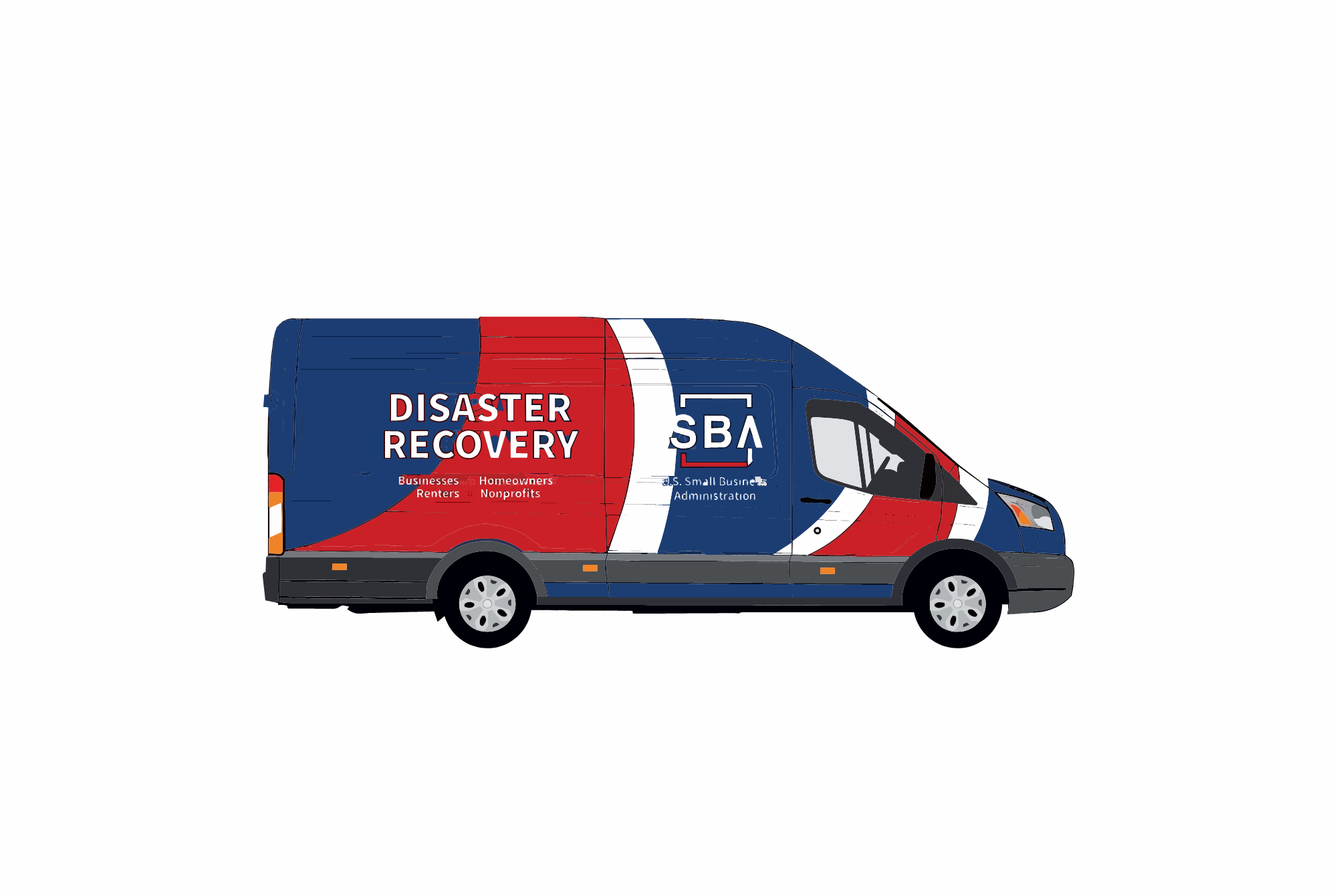
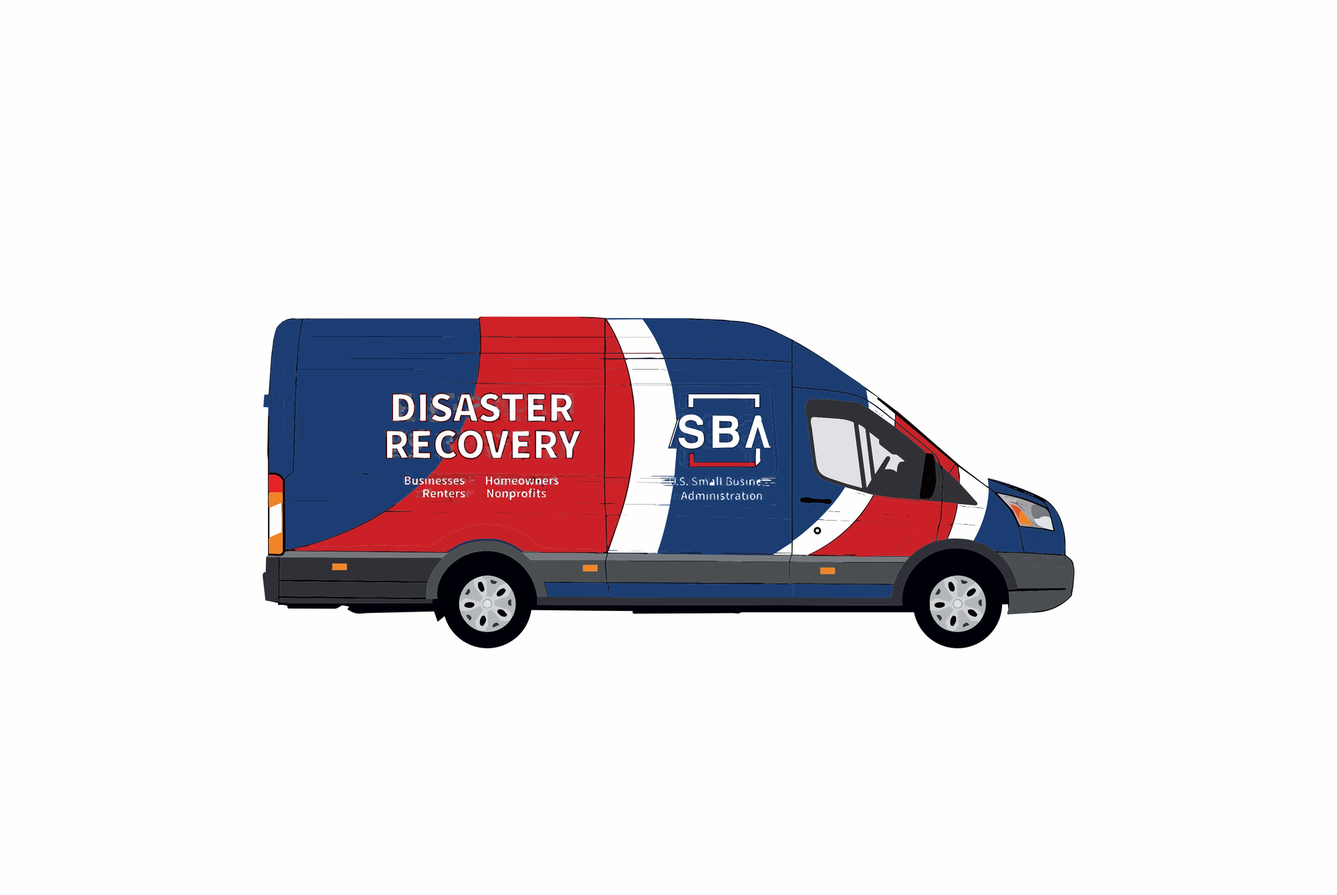
Van passenger-side lettering rebuilt (no red inside the letters), realistic traffic cars, trophy-truck suspension with crisp steering, heavier jumps with landing bounce, tighter timers with a 10 s carry-over cap

Changed region(s): [[0.279, 0.4287, 0.434, 0.5818], [0.496, 0.4287, 0.589, 0.5818]]

diff --git a/game/src/game.js b/game/src/game.js
@@ -14,7 +14,7 @@ import { Radio } from "./radio.js";
 const easeIO = (t) => t < 0.5 ? 4 * t * t * t : 1 - Math.pow(-2 * t + 2, 3) / 2;
 
 const VAN_W = 0.24;          // van width in road half-widths
-const JUMP_G = 13;           // gravity for jumps (m/s^2): a little stronger than real, so jumps stay arcade-snappy
+const JUMP_G = 21;           // gravity for jumps (m/s^2): stronger than real, so a ramp gives about a second of air, not a float
 const DT = 1 / 60;
 const RADIO_STATES = new Set(["stageIntro", "drive", "restoring", "results"]);   // where stage music (or the radio) plays
 
@@ -41,12 +41,12 @@ export class Game {
     const prev = i > 0 ? WEATHER[this.cfg.stages[i - 1].weather] : WEATHER.dusk;
     this.envFrom = prev; this.envBlend = 0;
     const P = this.player; P.z = 0; P.x = 0.35; P.speed = 0; P.y = 0; P.vx = 0; this.steerS = 0; this.lastSpeed = 0; this.jumpReset();
-    this.body = { p: 0, pv: 0, r: 0, rv: 0, h: 0, hv: 0 };
+    this.body = { p: 0, pv: 0, r: 0, rv: 0, h: 0, hv: 0 }; this.lastRoadY = this.lastVyRoad = undefined;
     this.camX = P.x * 0.8; this.parallax = 0; this.delivered = false; this.overshot = false; this.autoStop = false;
     // Phones steer by tilt or touch, which is slower than a keyboard, so they get a little more time,
     // and nobody starts a stage with less than a fair floor (a retry after time-up never carries anything over).
     const base = this.stageTime();
-    this.time = Math.max((keepTime ? this.time : 0) + base, base * (this.mobile ? this.cfg.difficulty.minStartFactor : 0)); this.boosts = this.cfg.physics.boostsPerStage; this.boostT = 0; this.boostQueued = false;
+    this.time = Math.max((keepTime ? Math.min(this.time, this.cfg.difficulty.carryMax ?? 1e9) : 0) + base, base * (this.mobile ? this.cfg.difficulty.minStartFactor : 0)); this.boosts = this.cfg.physics.boostsPerStage; this.boostT = 0; this.boostQueued = false;
     this.crashes = 0; this.stopT = 0; this.messages = []; this.particles = []; this.tornado = null;
     this.restoreP[this.stageCfg.business] = 0;
     // the hidden helicopter escort: earned by running out of time, offered once on the retry
@@ -229,9 +229,9 @@ export class Game {
     const steerRate = C.steer * (0.3 + 0.7 * Math.min(1, speedK * 1.4)) * (0.7 + 0.3 * grip);
     // the wheel turns in and comes back progressively (a key press never snaps it), and the tyres take
     // a moment to bite, a little longer in the wet: the van carries its weight across the road
-    const sr = Math.abs(steer) > Math.abs(this.steerS) && Math.sign(steer) === Math.sign(this.steerS || steer) ? 6 : 9;
+    const sr = Math.abs(steer) > Math.abs(this.steerS) && Math.sign(steer) === Math.sign(this.steerS || steer) ? 14 : 18;   // quick: the wheel answers at once
     this.steerS += clamp(steer - this.steerS, -sr * DT, sr * DT);
-    const latT = this.steerS * steerRate * (P.speed > 50 ? 1 : 0) * (air ? 0.3 : 1), bite = (air ? 1.2 : 8.5) * (0.5 + 0.5 * grip);
+    const latT = this.steerS * steerRate * (P.speed > 50 ? 1 : 0) * (air ? 0.3 : 1), bite = (air ? 1.2 : 16) * (0.55 + 0.45 * grip);
     P.vx += (latT - P.vx) * (1 - Math.exp(-bite * DT));
     P.x += P.vx * DT;
     const assist = this.mobileAssist();
@@ -260,14 +260,19 @@ export class Game {
     const yawT = clamp(steer * 0.6 * Math.min(1, speedK * 2.5) + (1 - grip) * Math.sin(this.clock * 7) * 0.12 * speedK, -1, 1);
     this.yaw = lerp(this.yaw, yawT, 0.14); this.roll = lerp(this.roll, -this.yaw * 0.035 - seg.curve * 0.004 * speedK, 0.1);
     this.hitFx = Math.max(0, this.hitFx - DT * 3); this.shake = Math.max(0, this.shake - DT * 2.5);
-    // weight transfer on springs: the nose squats under power and dives under braking, the body leans
+    // long-travel suspension, the way a desert trophy truck rides: the body sways out of turns on soft,
+    // lightly damped springs, squats under power, dives under braking, goes light over crests and soaks up
+    // bumps; the wheels stay on the road (the controls stay crisp: this is all body motion)
     // out of turns and the suspension soaks up road bumps and landings
     const B = this.body, aLong = (P.speed - this.lastSpeed) / DT / C.maxSpeed; this.lastSpeed = P.speed;
-    const pT = air ? 0 : clamp(aLong * 0.028, -0.05, 0.03), rT = air ? 0 : clamp((this.steerS * 0.75 + seg.curve * 0.1) * speedK * speedK * 0.075, -0.07, 0.07);
-    B.pv += ((pT - B.p) * 95 - B.pv * 10) * DT; B.p += B.pv * DT;
-    B.rv += ((rT - B.r) * 70 - B.rv * 8) * DT; B.r += B.rv * DT;
-    const bumps = air ? 0 : noise1(P.z * 0.0011, 3) * 0.022 * speedK * (off ? 3 : 1);
-    B.hv += ((bumps - B.h) * 160 - B.hv * 12) * DT; B.h += B.hv * DT;
+    const pT = air ? 0 : clamp(aLong * 0.04, -0.07, 0.045), rT = air ? 0 : clamp((this.steerS * 0.8 + seg.curve * 0.1) * speedK * speedK * 0.11, -0.1, 0.1);
+    B.pv += ((pT - B.p) * 45 - B.pv * 5) * DT; B.p += B.pv * DT;               // ~1.1 Hz, settles after a small overshoot
+    B.rv += ((rT - B.r) * 38 - B.rv * 4.5) * DT; B.r += B.rv * DT;             // ~1 Hz sway
+    // heave: road texture, and the road's own rise and fall (light over a crest, compressed in a dip)
+    const vyRoad = (P.y - (this.lastRoadY ?? P.y)) / DT * U2M; this.lastRoadY = P.y;
+    const ayRoad = (vyRoad - (this.lastVyRoad ?? vyRoad)) / DT; this.lastVyRoad = vyRoad;
+    const bumps = air ? 0 : noise1(P.z * 0.0011, 3) * 0.035 * speedK * (off ? 2.5 : 1) + clamp(-ayRoad * 0.004, -0.1, 0.1);
+    B.hv += ((bumps - B.h) * 120 - B.hv * 9) * DT; B.h += B.hv * DT;
     const roadRumble = (off ? 3 : 0.4) * speedK + env.gust * Math.abs(gustA) * 2;
     this.camShakeY = (Math.sin(this.clock * 50) * roadRumble + (Math.random() - 0.5) * this.shake * 14);
     // collisions
@@ -404,7 +409,7 @@ export class Game {
   deliver(precision, overshot) {
     this.stopEscort(); this.delivered = true; this.zoneHint = false; this.tornadoWarned = false; this.hurrWarned = false;
     const st = this.stageCfg, tl = this.time;
-    let stars = tl > st.time * 0.2 ? 3 : tl > st.time * 0.08 ? 2 : 1;   // (timers are tight: a fifth of the time left is a great run)
+    let stars = tl > st.time * 0.1 ? 3 : tl > st.time * 0.03 ? 2 : 1;   // (timers are tight: a tenth of the time left is a great run)
     if (overshot || precision < 0.25) stars = Math.max(1, stars - 1);
     if (this.crashes > 6) stars = Math.max(1, stars - 1);
     this.lastResult = { timeLeft: tl, precision: Math.max(0, precision), overshot, crashes: this.crashes, stars, counted: false };
@@ -457,7 +462,7 @@ export class Game {
     P.lastPart = s.bridge ? s.bridge.part : null;
   }
   land(impact) {
-    const P = this.player, j = P.jump; P.air = false; P.airY = 0; P.vy = 0; P.pitch = 0; this.body.hv -= Math.min(2.2, impact * 0.1); this.body.pv -= impact * 0.012;
+    const P = this.player, j = P.jump; P.air = false; P.airY = 0; P.vy = 0; P.pitch = 0; this.body.hv -= Math.min(3.2, impact * 0.16); this.body.pv -= Math.min(0.5, impact * 0.015);   // the springs take the landing: compress, rebound, settle
     rumble(Math.min(1, 0.3 + impact / 20), 220); this.events.push({ type: "land", impact });
     // too slow to clear the gap (the far leaf caught the van): that is the rough landing
     if (P.assisted) { P.speed *= 0.6; this.shake = 1.1; this.hitFx = 0.6; this.audio.sfxPlay("crash"); this.msg("ROUGH LANDING!", "#FFB4B4", 1.2, 5, 0.36); return; }

diff --git a/game/src/three/props3d.js b/game/src/three/props3d.js
@@ -179,14 +179,64 @@ export const PROPS = {
 };
 
 // Traffic: body parts are white (tinted per instance), glass/tyres coloured.
-export function carGeometry(type) {
-  const W = "#ffffff", G = "#1b2430", T = "#121316", parts = [];
-  const wheels = (z0, z1, w) => { for (const z of [z0, z1]) for (const x of [-w / 2, w / 2]) parts.push(at(paint(new THREE.CylinderGeometry(0.34, 0.34, 0.24, 10), T), x, 0.34, z, 0, 0, Math.PI / 2)); };
-  if (type === "boxtruck") { parts.push(box(2.3, 2.6, 5.0, W, 0, 0.7, 1.2), box(2.2, 1.6, 2.0, "#e2e5ea", 0, 0.55, -2.4), box(2.0, 0.8, 0.05, G, 0, 1.25, -3.42)); wheels(-2.4, 2.6, 2.2); }
-  else if (type === "pickup" || type === "utility") { parts.push(box(2.0, 0.85, 5.2, W, 0, 0.45, 0), box(1.9, 0.8, 1.9, W, 0, 1.3, -0.6), box(1.8, 0.62, 0.05, G, 0, 1.38, -1.57), box(1.8, 0.62, 0.05, G, 0, 1.38, 0.37)); if (type === "utility") parts.push(box(1.9, 0.6, 2.0, "#e6e8ec", 0, 1.3, 1.5)); wheels(-1.6, 1.6, 1.95); }
-  else { const hatch = type === "hatch"; parts.push(box(1.85, 0.7, hatch ? 4.0 : 4.6, W, 0, 0.42, 0), box(1.7, 0.62, hatch ? 2.2 : 2.3, W, 0, 1.1, hatch ? 0.35 : 0.1), box(1.6, 0.5, 0.05, G, 0, 1.15, hatch ? 1.47 : 1.27), box(1.6, 0.5, 0.05, G, 0, 1.15, hatch ? -0.77 : -1.07)); wheels(hatch ? -1.3 : -1.5, hatch ? 1.3 : 1.5, 1.8); }
-  return merge(parts);
+// ---------- traffic cars: a contoured body with real wheel arches (extruded side profile), a glass cabin
+// and roof, tyres with silver rims, lamps, grille, bumpers and mirrors. carParts() splits the paint
+// (white, so each car's instance colour tints it) from the details that keep their own colours.
+// Forward is -z, the ground is y = 0; lengths match CAR_DIM.
+const BODY = {
+  sedan:    { L: 4.6, W: 1.85, wb: 1.45, wr: 0.33, hood: 0.84, belt: 0.96, roof: 1.43, cab: [1.1, 0.35, -0.8, -1.55], tail: 0.92 },
+  hatch:    { L: 4.0, W: 1.8, wb: 1.28, wr: 0.32, hood: 0.82, belt: 0.96, roof: 1.47, cab: [0.95, 0.25, -1.3, -1.85], tail: 0.98 },
+  pickup:   { L: 5.2, W: 2.0, wb: 1.62, wr: 0.39, hood: 1.08, belt: 1.12, roof: 1.84, cab: [1.0, 0.55, -0.45, -0.58], tail: 1.16, bed: true },
+  utility:  { L: 5.2, W: 2.0, wb: 1.62, wr: 0.39, hood: 1.08, belt: 1.12, roof: 1.84, cab: [1.0, 0.55, -0.45, -0.58], tail: 1.16, bed: true, box: true },
+  boxtruck: { L: 6.4, W: 2.3, wb: 2.25, wr: 0.45, hood: 1.25, belt: 1.35, roof: 2.35, cab: [2.25, 1.85, 1.35, 1.3], tail: 3.2, cargo: true },
+};
+// a side profile (u forward, y up) extruded across the width, with rounded edges
+function profile(pts, w, bevel = 0.06) {
+  const sh = new THREE.Shape(pts.map(([u, y]) => new THREE.Vector2(u, y)));
+  const g = new THREE.ExtrudeGeometry(sh, { depth: w - bevel * 2, bevelEnabled: true, bevelThickness: bevel, bevelSize: bevel, bevelSegments: 2, curveSegments: 6 });
+  g.translate(0, 0, -(w - bevel * 2) / 2); g.rotateY(Math.PI / 2);          // u forward -> -z, width along x
+  return g;
 }
+export function carParts(type) {
+  const B = BODY[type] || BODY.sedan, h = B.L / 2, ar = B.wr + 0.07, body = [], det = [];
+  const PAINT = "#ffffff", GLASS = "#16202b", TYRE = "#121315", RIM = "#b9bdc4", TRIM = "#1d1f22", HEAD = "#f4f1e4", TAIL = "#8e1414";
+  // body outline: under the wheel arches, up the nose, over the hood to the cabin, along the beltline, down the tail
+  const pts = [[-h + 0.06, 0.3]];
+  for (const cx of [-B.wb, B.wb]) { for (let k = 0; k <= 8; k++) { const a = Math.PI - k / 8 * Math.PI; pts.push([cx + Math.cos(a) * ar, Math.max(0.3, B.wr + Math.sin(a) * ar)]); } }
+  // a rounded nose: bumper, then the hood curving back from the grille
+  pts.push([h - 0.05, 0.3], [h + 0.02, 0.42], [h + 0.03, 0.56], [h, B.hood - 0.16], [h - 0.08, B.hood - 0.05], [h - 0.25, B.hood - 0.005], [h - 0.45, B.hood]);
+  if (B.cargo) pts.push([B.cab[0], B.belt], [B.cab[3] - 0.05, B.belt], [B.cab[3] - 0.05, 0.85], [-h, 0.85], [-h, 0.55]);
+  else if (B.bed) pts.push([B.cab[0], B.belt], [B.cab[3], B.belt], [B.cab[3] - 0.04, B.tail], [-h + 0.05, B.tail], [-h - 0.02, B.tail - 0.25], [-h, 0.5]);
+  else pts.push([B.cab[0], B.belt], [B.cab[3], B.belt], [-h + 0.4, B.tail + 0.01], [-h + 0.12, B.tail - 0.04], [-h - 0.02, B.tail - 0.2], [-h - 0.03, 0.55], [-h, 0.42]);
+  body.push(paint(profile(pts, B.W, 0.1), PAINT));
+  // glass cabin (slightly narrower) and the roof skin over it
+  const [c0, c1, c2, c3] = B.cab;
+  det.push(paint(profile([[c0, B.belt - 0.01], [c1, B.roof], [c2, B.roof], [c3, B.belt - 0.01]], B.W - 0.16, 0.04), GLASS));
+  body.push(at(paint(new THREE.BoxGeometry(B.W - 0.2, 0.05, Math.abs(c1 - c2) + 0.08), PAINT), 0, B.roof + 0.015, -(c1 + c2) / 2));
+  det.push(box(0.05, B.roof - B.belt - 0.04, 0.12, TRIM, -(B.W / 2 - 0.09), B.belt, -((c1 + c2) / 2 - 0.15)), box(0.05, B.roof - B.belt - 0.04, 0.12, TRIM, B.W / 2 - 0.09, B.belt, -((c1 + c2) / 2 - 0.15)));   // B-pillars
+  // cargo box / utility body
+  if (B.cargo) body.push(box(B.W + 0.04, 2.35, h + c3 - 0.05, PAINT, 0, 0.85, (h - c3 + 0.05) / 2));   // from behind the cab to the tail
+  if (B.bed && !B.box) det.push(box(B.W - 0.32, 0.02, h + B.cab[3] - 0.2, TRIM, 0, B.tail + 0.004, (h - B.cab[3]) / 2 + 0.05));   // the open bed, seen from above
+  if (B.box) body.push(box(B.W - 0.06, 0.62, 1.85, PAINT, 0, B.tail, 1.55), box(B.W - 0.02, 0.05, 1.9, PAINT, 0, B.tail + 0.62, 1.55));
+  // wheels: tyre, silver rim, dark hub
+  for (const cx of [-B.wb, B.wb]) for (const sx of [-1, 1]) {
+    det.push(at(paint(new THREE.CylinderGeometry(B.wr, B.wr, 0.24, 16), TYRE), sx * (B.W / 2 - 0.13), B.wr, -cx, 0, 0, Math.PI / 2));
+    det.push(at(paint(new THREE.CylinderGeometry(B.wr * 0.62, B.wr * 0.62, 0.02, 14), RIM), sx * (B.W / 2 - 0.005), B.wr, -cx, 0, 0, Math.PI / 2));
+    det.push(at(paint(new THREE.CylinderGeometry(B.wr * 0.18, B.wr * 0.18, 0.03, 8), TRIM), sx * (B.W / 2 + 0.006), B.wr, -cx, 0, 0, Math.PI / 2));
+  }
+  // lamps, grille, bumpers, plate, mirrors
+  for (const sx of [-1, 1]) {
+    det.push(box(0.36, 0.13, 0.05, HEAD, sx * (B.W / 2 - 0.3), B.hood - 0.26, -(h + 0.0)));
+    det.push(box(0.3, 0.16, 0.05, TAIL, sx * (B.W / 2 - 0.22), (B.cargo ? 0.95 : B.tail - 0.3), h + 0.01));
+    body.push(box(0.08, 0.12, 0.2, PAINT, sx * (B.W / 2 + 0.06), B.belt + 0.06, -(c0 - 0.1)));
+  }
+  det.push(box(B.W * 0.45, Math.max(0.16, B.hood - 0.62), 0.05, TRIM, 0, 0.5, -(h + 0.01)));
+  det.push(box(B.W - 0.1, 0.16, 0.1, TRIM, 0, 0.3, -(h + 0.02)), box(B.W - 0.1, 0.16, 0.1, TRIM, 0, 0.3, h + 0.02));
+  det.push(box(0.5, 0.13, 0.02, "#e8e8e2", 0, 0.5, h + 0.04));
+  return { body: merge(body), detail: merge(det) };
+}
+// the whole car as one geometry (the car carrier's load uses this)
+export function carGeometry(type) { const p = carParts(type); return merge([p.body, p.detail]); }
 export const CAR_COLORS = ["#4a4f5a", "#8a2a30", "#2f5f73", "#b9bdc4", "#e9eaee", "#23272e", "#6f6a52", "#2b3f6a"];
 export const CAR_DIM = { sedan: [1.85, 4.6], hatch: [1.85, 4.0], pickup: [2.0, 5.2], utility: [2.0, 5.2], boxtruck: [2.3, 6.4] };
 

diff --git a/game/src/three/world3d.js b/game/src/three/world3d.js
@@ -7,7 +7,7 @@ import { U2M, SEGM, HALFW, buildCenterline, worldAt, pitchAt } from "./space.js"
 import { LOOKS } from "./look.js";
 import { makeSky } from "./sky.js";
 import { buildRoad } from "./road3d.js";
-import { PROPS, carGeometry, CAR_COLORS, CAR_DIM, stopBuildingGeo, setPropDetail } from "./props3d.js";
+import { PROPS, carParts, CAR_COLORS, CAR_DIM, stopBuildingGeo, setPropDetail } from "./props3d.js";
 import { buildVan } from "./van3d.js";
 import { buildHeli } from "./heli3d.js";
 import { buildJumps } from "./jumps3d.js";
@@ -179,12 +179,15 @@ export class World3D {
     // ---- traffic
     const types = {}; track.cars.forEach(c => (types[c.type] = types[c.type] || []).push(c));
     for (const type in types) {
-      const list = types[type], im = new THREE.InstancedMesh(carGeometry(type), this.q.high ? new THREE.MeshPhysicalMaterial({ vertexColors: true, roughness: 0.42, metalness: 0.25, clearcoat: 1, clearcoatRoughness: 0.08 }) : new THREE.MeshLambertMaterial({ vertexColors: true }), list.length);
+      const list = types[type], parts = carParts(type), im = new THREE.InstancedMesh(parts.body, this.q.high ? new THREE.MeshPhysicalMaterial({ vertexColors: true, roughness: 0.42, metalness: 0.25, clearcoat: 1, clearcoatRoughness: 0.08 }) : new THREE.MeshLambertMaterial({ vertexColors: true }), list.length);
       im.instanceMatrix.setUsage(THREE.DynamicDrawUsage); im.castShadow = this.q.shadows; im.frustumCulled = false;
       list.forEach((c, n) => im.setColorAt(n, tmpC.set(type === "utility" || type === "boxtruck" ? "#eef0f3" : CAR_COLORS[c.color % CAR_COLORS.length])));
       const tl = new THREE.InstancedMesh(new THREE.BoxGeometry(0.34, 0.16, 0.05), new THREE.MeshBasicMaterial({ color: 0xff2a24 }), list.length * 2); tl.instanceMatrix.setUsage(THREE.DynamicDrawUsage); tl.frustumCulled = false;
       const blob = new THREE.InstancedMesh(new THREE.PlaneGeometry(1, 1).rotateX(-Math.PI / 2), new THREE.MeshBasicMaterial({ map: blobTexture(), transparent: true, depthWrite: false }), list.length); blob.frustumCulled = false;
-      group.add(im, tl, blob); st.cars[type] = { list, im, tl, blob, dim: CAR_DIM[type] };
+      // glass, tyres, rims and lamps keep their own colours (the paint above takes each car's colour)
+      const imD = new THREE.InstancedMesh(parts.detail, this.q.high ? new THREE.MeshStandardMaterial({ vertexColors: true, roughness: 0.3, metalness: 0.35 }) : new THREE.MeshLambertMaterial({ vertexColors: true }), list.length);
+      imD.instanceMatrix.setUsage(THREE.DynamicDrawUsage); imD.frustumCulled = false; imD.castShadow = im.castShadow;
+      group.add(im, imD, tl, blob); st.cars[type] = { list, im, imD, tl, blob, dim: CAR_DIM[type] };
       if (type === "utility") { const bc = new THREE.InstancedMesh(new THREE.BoxGeometry(1.2, 0.16, 0.3), new THREE.MeshBasicMaterial({ color: 0xffa020 }), list.length); bc.instanceMatrix.setUsage(THREE.DynamicDrawUsage); bc.frustumCulled = false; group.add(bc); st.cars[type].beacon = bc; }
     }
     // ---- jumps: the drawbridge (stage 1) and the car carrier (stage 2)
@@ -322,18 +325,18 @@ export class World3D {
       const C = st.cars[type]; let n = 0;
       C.list.forEach((car, idx) => {
         const visible = car.z > vz - 60 / U2M && car.z < vz + this.q.far * 0.9 / U2M;
-        if (!visible) { this.m4.compose(this.zero, this.q4.identity(), this.zero); C.im.setMatrixAt(idx, this.m4); C.tl.setMatrixAt(idx * 2, this.m4); C.tl.setMatrixAt(idx * 2 + 1, this.m4); C.blob.setMatrixAt(idx, this.m4); if (C.beacon) C.beacon.setMatrixAt(idx, this.m4); return; }
+        if (!visible) { this.m4.compose(this.zero, this.q4.identity(), this.zero); C.im.setMatrixAt(idx, this.m4); C.imD.setMatrixAt(idx, this.m4); C.tl.setMatrixAt(idx * 2, this.m4); C.tl.setMatrixAt(idx * 2 + 1, this.m4); C.blob.setMatrixAt(idx, this.m4); if (C.beacon) C.beacon.setMatrixAt(idx, this.m4); return; }
         const zI = car.z - (car.speed || 0) * (1 - ra) / 60;   // smoothed like the van
         const p = worldAt(cl, zI, car.offset), yaw = -p.h - Math.cos(t * 0.5 + car.seed) * 0.08 * car.swerve;
         this.q4.setFromEuler(this.eul.set(pitchAt(cl, zI), yaw, 0, "YXZ"));
-        this.m4.compose(this.v3.set(p.x, p.y, p.z), this.q4, this.one); C.im.setMatrixAt(idx, this.m4);
+        this.m4.compose(this.v3.set(p.x, p.y, p.z), this.q4, this.one); C.im.setMatrixAt(idx, this.m4); C.imD.setMatrixAt(idx, this.m4);
         const back = C.dim[1] / 2 + 0.02, w = C.dim[0] / 2 - 0.25, sx = Math.sin(yaw), cz = Math.cos(yaw);
         const bright = car.braking ? 1.6 : 1;
         for (const k of [0, 1]) { const ox = (k ? w : -w); this.m4.compose(this.v3.set(p.x + cz * ox + sx * back, p.y + 0.85, p.z - sx * ox + cz * back), this.q4, this.v3.clone().set(bright, bright, 1)); C.tl.setMatrixAt(idx * 2 + k, this.m4); }
         this.m4.compose(this.v3.set(p.x, p.y + 0.03, p.z), this.q4, this.v3.clone().set(C.dim[0] * 1.5, 1, C.dim[1] * 1.2)); C.blob.setMatrixAt(idx, this.m4);
         if (C.beacon) { const on = Math.sin(t * 12 + car.seed) > 0 ? 1 : 0.01; this.m4.compose(this.v3.set(p.x, p.y + 2.15, p.z), this.q4, this.v3.clone().set(on, on, on)); C.beacon.setMatrixAt(idx, this.m4); }
       });
-      C.im.instanceMatrix.needsUpdate = C.tl.instanceMatrix.needsUpdate = C.blob.instanceMatrix.needsUpdate = true; if (C.beacon) C.beacon.instanceMatrix.needsUpdate = true;
+      C.im.instanceMatrix.needsUpdate = C.imD.instanceMatrix.needsUpdate = C.tl.instanceMatrix.needsUpdate = C.blob.instanceMatrix.needsUpdate = true; if (C.beacon) C.beacon.instanceMatrix.needsUpdate = true;
     }
     // ---- hazards: drift, tumble, fly away when hit
     for (const hz of st.hz) {

diff --git a/game/config.js b/game/config.js
@@ -17,6 +17,7 @@ export const CONFIG = {
     mobileTimeFactor: 1.12,   // phones get 12% more time on every stage
     minStartFactor: 1.3,      // phones never start a stage with less than 1.3x its (phone) base time
     retryFactor: 1.25,        // retrying after time runs out gives 1.25x the stage time
+    carryMax: 10,             // seconds of leftover time that carry into the next stage
     mobileAssist: { default: 0.2, hurricane: 0.55, tornado: 0.35 },   // share of wind and curve drift removed on phones
   },
   // ---- Hidden bonus: an SBA helicopter escort, offered on the retry after time runs out.
@@ -48,16 +49,16 @@ export const CONFIG = {
   },
 
   // ---- Stages: weather, length (segments), time added, hazards, traffic -----
-  // Stages are about 65% longer than at launch, with three jumps each. Times are tight: about 1.2x what
-  // the autopilot takes (it collects some pickups and crashes now and then), so a clean run banks a
-  // little time for the next stage and a messy one runs out.
+  // Stages are about 65% longer than at launch, with three jumps each. Times are tight: about 1.08x what
+  // the autopilot takes (it collects some pickups and crashes now and then). At most `carryMax` seconds
+  // left over carry into the next stage, so every stage stands on its own.
   // `weather` names a preset in src/weather.js.
   stages: [
-    { name: "AFTERMATH",       weather: "dusk",      length: 4300, time: 82, traffic: 17, hazards: 15, curves: 1.0, hills: 0.6, fact: 0, business: 0 },
-    { name: "HEAVY WEATHER",   weather: "storm",     length: 4700, time: 100, traffic: 20, hazards: 24, curves: 1.25, hills: 0.8, fact: 1, business: 1 },
+    { name: "AFTERMATH",       weather: "dusk",      length: 4300, time: 70, traffic: 17, hazards: 15, curves: 1.0, hills: 0.6, fact: 0, business: 0 },
+    { name: "HEAVY WEATHER",   weather: "storm",     length: 4700, time: 88, traffic: 20, hazards: 24, curves: 1.25, hills: 0.8, fact: 1, business: 1 },
     { name: "FLOOD ZONE",      weather: "flood",     length: 4900, time: 88, traffic: 17, hazards: 27, curves: 0.9, hills: 0.0, fact: 2, business: 2 },
-    { name: "TORNADO ALLEY",   weather: "tornado",   length: 5200, time: 96, traffic: 17, hazards: 32, curves: 1.1, hills: 0.3, fact: 3, business: 3 },
-    { name: "HURRICANE COAST", weather: "hurricane", length: 5500, time: 114, traffic: 20, hazards: 35, curves: 1.3, hills: 0.0, fact: 4, business: 4 },
+    { name: "TORNADO ALLEY",   weather: "tornado",   length: 5200, time: 92, traffic: 17, hazards: 32, curves: 1.1, hills: 0.3, fact: 3, business: 3 },
+    { name: "HURRICANE COAST", weather: "hurricane", length: 5500, time: 112, traffic: 20, hazards: 35, curves: 1.3, hills: 0.0, fact: 4, business: 4 },
   ],
 
   // ---- The five stops: two businesses, a homeowner, renters, a nonprofit ---
@@ -159,7 +160,7 @@ export const CONFIG = {
   van: {
     rear: "../assets/mrv-van/generated/mrv-van-04-rear-B.png",
     driverSide: "../assets/mrv-van/adobe/reference-vector.svg",
-    passengerSide: "../assets/mrv-van/v3/mrv-van-02-passenger-side.svg",
+    passengerSide: "../assets/mrv-van/v3/mrv-van-02-passenger-side.png",   // rebuilt by assets/mrv-van/adobe/build_passenger_raster.mjs
     hero: "../assets/mrv-van/illustrator/mrv-van-05-three-quarter.png",
     front: "../assets/mrv-van/illustrator/mrv-van-03-front.png",
   },

diff --git a/game/dev/cars.html b/game/dev/cars.html
@@ -1,0 +1,20 @@
+<!doctype html><html><head><meta charset="utf-8"><title>Traffic cars</title><style>html,body{margin:0;background:#9fb7cc;overflow:hidden}</style></head><body>
+<script type="importmap">{"imports":{"three":"../vendor/three/three.module.js","three/addons/":"../vendor/three/addons/"}}</script>
+<script>addEventListener("error",e=>window.__error=String(e.message||e));</script>
+<script type="module">
+// The traffic car models side by side (props3d.js carParts), for checking them by eye.
+import * as THREE from "three";
+import { carParts, CAR_COLORS } from "../src/three/props3d.js";
+const r = new THREE.WebGLRenderer({ antialias: true }); r.setSize(innerWidth, innerHeight); r.toneMapping = THREE.ACESFilmicToneMapping; r.shadowMap.enabled = true; document.body.appendChild(r.domElement);
+const scene = new THREE.Scene(), cam = new THREE.PerspectiveCamera(32, innerWidth / innerHeight, 0.1, 200);
+scene.add(new THREE.HemisphereLight(0xdfeaf5, 0x5a5040, 1.2)); const sun = new THREE.DirectionalLight(0xfff1d6, 2.6); sun.position.set(-6, 10, 8); sun.castShadow = true; Object.assign(sun.shadow.camera, { left: -20, right: 20, top: 20, bottom: -20 }); scene.add(sun);
+const pm = new THREE.PMREMGenerator(r), env = new THREE.Scene(); env.background = new THREE.Color(0xa8c0d8); scene.environment = pm.fromScene(env).texture;
+const ground = new THREE.Mesh(new THREE.PlaneGeometry(80, 80), new THREE.MeshStandardMaterial({ color: 0x55585e, roughness: 0.9 })); ground.rotation.x = -Math.PI / 2; ground.receiveShadow = true; scene.add(ground);
+["sedan", "hatch", "pickup", "utility", "boxtruck"].forEach((t, i) => {
+  const p = carParts(t), g = new THREE.Group(); g.position.set((i - 2) * 3.4, 0, 0); g.rotation.y = -Math.PI / 2 + 0.5; scene.add(g);
+  const body = new THREE.Mesh(p.body, new THREE.MeshPhysicalMaterial({ vertexColors: true, color: t === "utility" || t === "boxtruck" ? 0xeef0f3 : CAR_COLORS[(i * 3 + 1) % CAR_COLORS.length], roughness: 0.42, metalness: 0.25, clearcoat: 1, clearcoatRoughness: 0.08 }));
+  const det = new THREE.Mesh(p.detail, new THREE.MeshStandardMaterial({ vertexColors: true, roughness: 0.3, metalness: 0.35 }));
+  for (const m of [body, det]) { m.castShadow = true; g.add(m); }
+});
+cam.position.set(0, 4.5, 15); cam.lookAt(0, 0.9, 0); r.render(scene, cam); window.__ready = true;
+</script></body></html>

diff --git a/game/src/track.js b/game/src/track.js
@@ -152,7 +152,7 @@ export function buildTrack(stage, index, cfg) {
     segs[i].hazards.push(hz);
   }
   // ---- time pickups ---------------------------------------------------------
-  const nPick = Math.round(N / 480);
+  const nPick = Math.round(N / 900);                 // a handful of +3 s pickups a stage (the clock is meant to be tight)
   for (let k = 0; k < nPick; k++) {
     let i = 150 + Math.floor((k + 0.5) / nPick * (zoneStart - 300));
     while (nearJump(i, 20)) i += 10;
